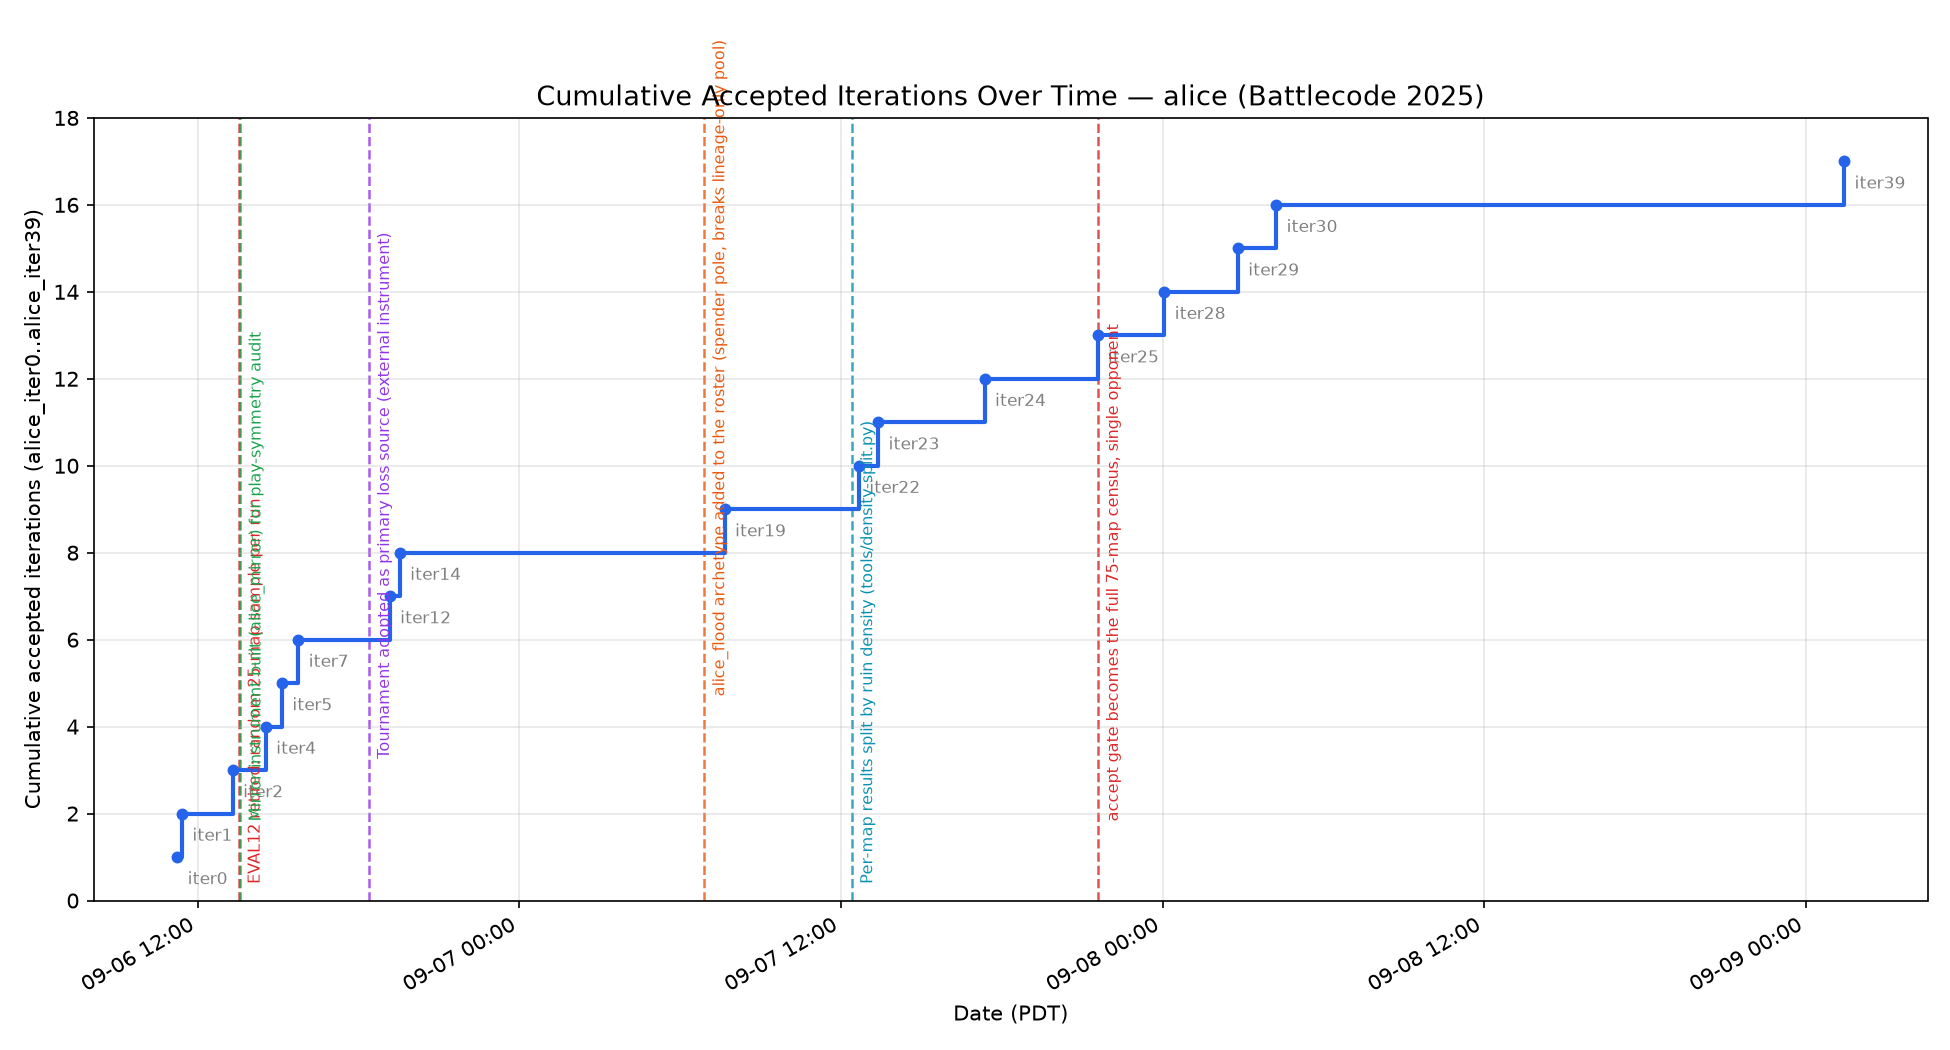
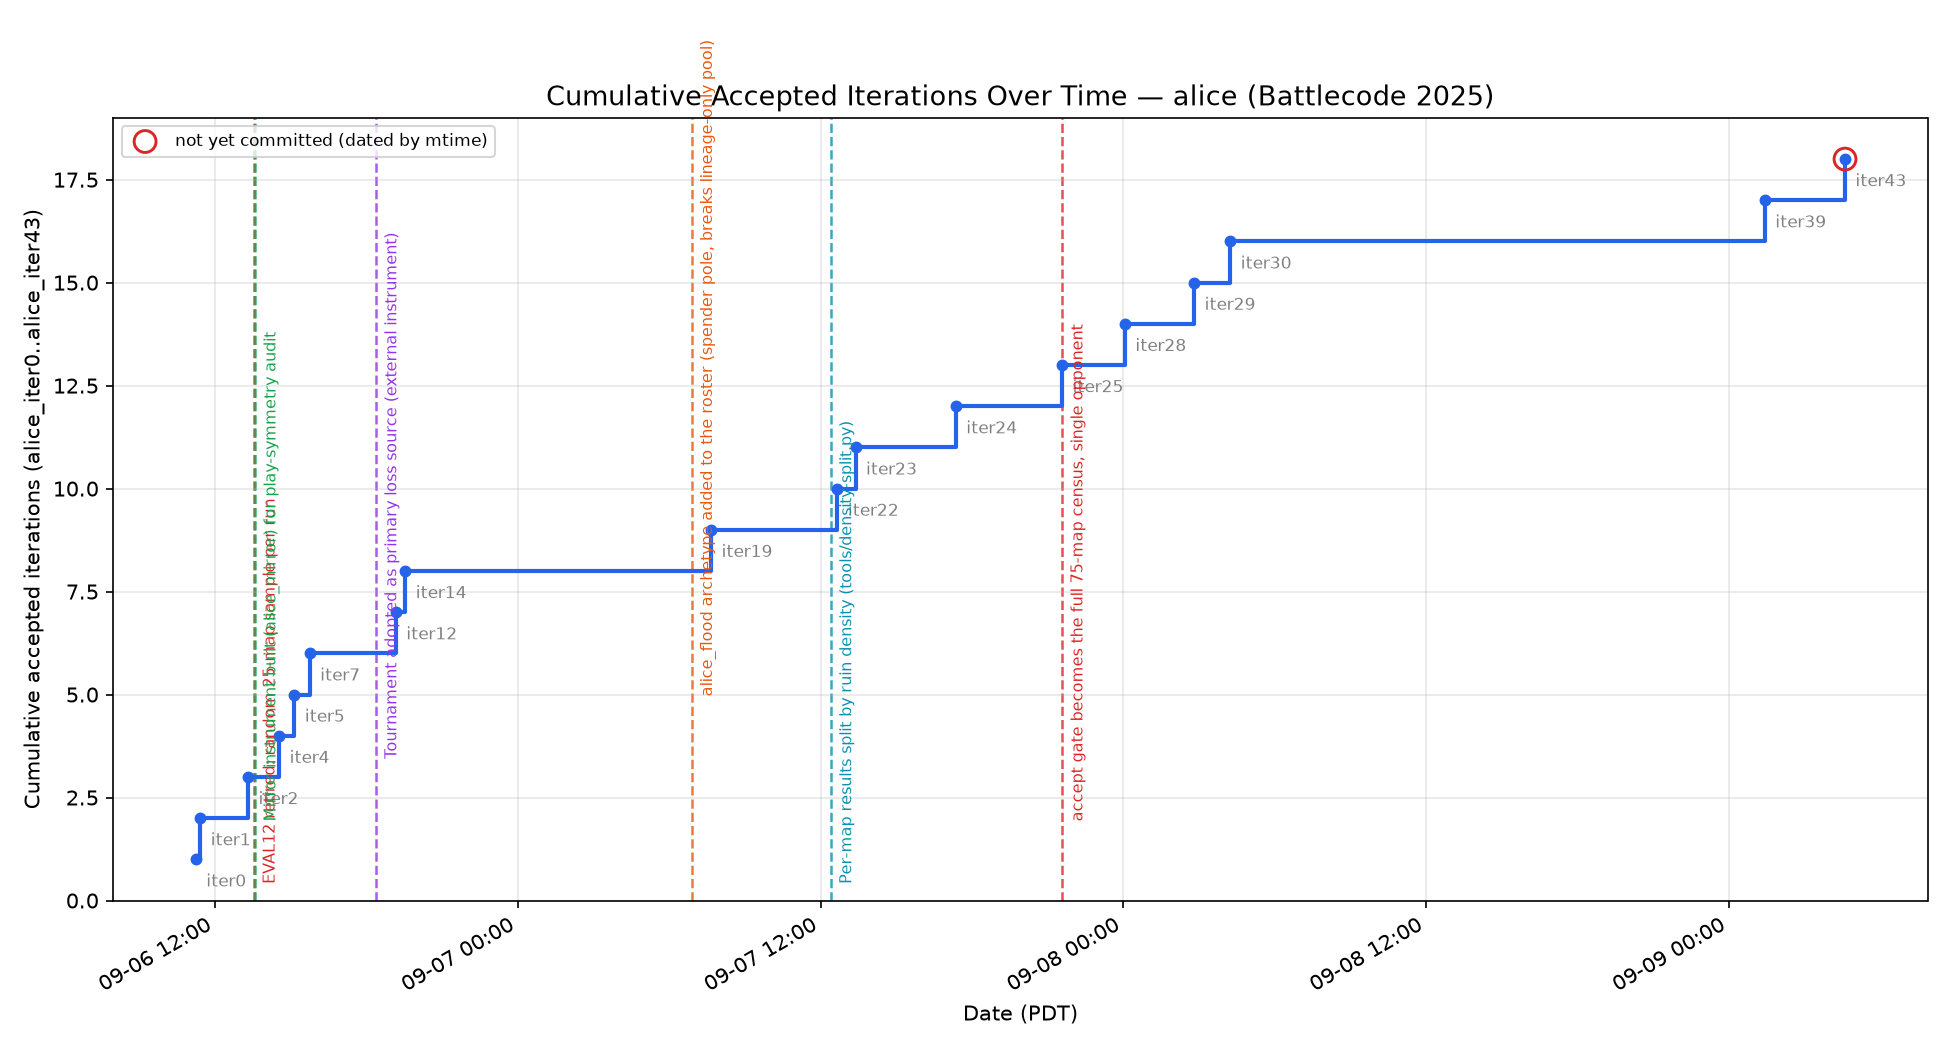
alice: ACCEPT iteration 43 -- de-degenerate the tower key; +3 on the four, 0 on the other 71
Both pre-registered gates cleared:
  - mechanism arm (4 single-parity maps, 8 games): 7/8, bar was >=6/8
  - cost bound (full 75-map corpus, 150 games): net swept +2, bar was >=-2

The pre-registered map-level falsifier does not fire. Decomposed, the corpus
result is +3 on the four single-parity maps and -1 on the other 71 (0.17 sd
over 33 decisive maps) -- the gain is exactly where the hypothesis put it.

Recorded because it is the trap here: the corpus sample drew all four
single-parity maps, and those 8 games are byte-identical to the mechanism
arm's (deterministic engine, same round counts). That is a reproduction, not
a replication, so "7/8 in the arm AND +3 on the corpus" is one measurement
cited twice. The new information in the corpus run is the -1 on the 71.

Also refutes the density confound flagged as this iteration's weakest joint:
the four span ruin-density rank 1 to 52 of 75, and outcomes do not track
density (sparsest map swept, denser one split). Dropping gridworld -- the one
map the shared map README calls doubly degenerate -- leaves 5/6, still clear
of the bar.

Claude-Session: https://claude.ai/code/session_01AaaGzxRUmH5UDEVerTki8y

diff --git a/agents/alice/src/alice_iter43/RobotPlayer.java b/agents/alice/src/alice_iter43/RobotPlayer.java
@@ -1,4 +1,4 @@
-package alice;
+package alice_iter43;
 
 import battlecode.common.*;
 

diff --git a/agents/alice/TRAINING_LOG.md b/agents/alice/TRAINING_LOG.md
@@ -15726,3 +15726,154 @@ both of us", and the only instrument that can confirm transfer to opponents my l
 produce is the round-robin. The two pre-checks I recorded as not done — a replay confirmation that
 alice really fields one tower type on `gridworld`, and the possibility that the four maps share
 some other property — are **still not done**, and the second is the weakest joint in the argument.
+
+### Pre-check (b) advanced: the density confound is REFUTED, and it was the right suspect
+
+I recorded "the four maps may share some other property" as the weakest joint in iteration 43's
+argument. `tools/mapdata/README.md` — shared neutral ground, not my own workspace — names the
+suspect outright:
+
+> `gridworld` is therefore degenerate in **two independent ways** — single-parity ruins *and*
+> extreme density.
+
+So the confound is not hypothetical, and on the map contributing the most ruins (21 of the 38
+across the four) it is *real*. If ruin density were driving the arm, iteration 43's 7/8 would be
+an artefact.
+
+**It is not, and the corpus refutes it without a single extra game.** Density rank of the four,
+over the 75-map corpus (ruins per 1000 tiles):
+
+| map | density | rank | ruins | arm outcome |
+|---|---|---|---|---|
+| `gridworld` | 21.9 | **1 of 75** (densest) | 21 | SWEPT |
+| `CastleDefense` | 15.0 | 15 | 6 | SWEPT |
+| `Filter` | 11.3 | 40 (median is ~11.4) | 5 | **split** |
+| `Snowman` | 9.6 | 52 (below median) | 6 | SWEPT |
+
+The four span rank 1 to rank 52 — densest to well below median — so **"these maps are all dense"
+is false as a description of the set.** And the outcomes do not track density in the one direction
+that matters: the *sparsest* of the four (`Snowman`, rank 52) was swept, while the *denser*
+`Filter` (rank 40) was the only split. A density-driven effect predicts the opposite ordering.
+
+What does order the outcomes is **ruin count** — `Filter` has 5, the fewest, so a re-key changes
+the fewest towers there. That is the mechanism's own prediction, and I logged it before computing
+any of this.
+
+**The robustness check that costs nothing:** drop `gridworld` — the one map where the confound is
+genuinely present — and the arm reads **5/6 (83.3%)**, still clear of the pre-registered 75% bar.
+The result does not depend on the contaminated map.
+
+**What this does NOT settle.** Refuting density is not refuting every confound; with four maps a
+lattice-regularity story remains unexcluded, and I could not separate it by win rate. A graded
+"near-degenerate" arm (skew 0.75–0.88: `yearofthesnake`, `lighthouse`, `Brat`, `MoneyTower`) looks
+like the obvious control and **is not one** — parity-degeneracy and lattice-regularity both
+predict the effect concentrates at skew = 1.00 and vanishes below it, because one minority tower
+is qualitatively different from zero. Both hypotheses give ~50% there, so the arm would cost 14
+games and discriminate nothing. Naming a control that cannot discriminate, and not running it,
+is the cheaper half of this check.
+
+**The test that does discriminate is the intermediate causal link, not any win rate.** My chain is
+single parity -> one tower type -> one income stream at zero -> damage. The middle terms are
+directly observable, and the lattice story predicts nothing about them. That promotes pre-check
+(a) from a formality to the decisive measurement: censusing tower composition and per-type income
+for `alice` vs `alice_i43` on the four maps.
+
+### Pre-check (a), the code half: the parity key does determine the tower type
+
+Read before measuring, because the completion path has a fallback that *looks* like it could
+override the key (`src/alice/RobotPlayer.java`):
+
+```java
+if (rc.canCompleteTowerPattern(UnitType.LEVEL_ONE_PAINT_TOWER, ruin)) { ... }
+else if (rc.canCompleteTowerPattern(UnitType.LEVEL_ONE_MONEY_TOWER, ruin)) { ... }
+```
+
+Tried in a fixed order, PAINT first, with no reference to `wantTower` — exactly the shape of the
+absolute-order bug the algorithm's play-symmetry audit warns about. It is **benign here**:
+`canCompleteTowerPattern` succeeds only when the tiles are already painted in that type's pattern,
+and the paint came from `markTowerPattern(wantTower, ruin)`. The mark decides; the fallback order
+only picks which query answers true. So the key does select the tower type, and the parity table's
+implication holds at the code level.
+
+That is the implication confirmed, not the behaviour. The census still has to show `alice_i43`
+actually *achieves* a mix on these maps — a key that emits a mix and a bot that builds one are
+different claims, and this log has been caught by that gap before.
+
+## Iteration 43 ACCEPTED — cost bound +2, and the gain sits exactly where it was registered
+
+Run `20260909-111028`, `BOT=alice_i43` vs `alice_iter39`, full 75-map corpus, 150 games. The run
+was launched by the session that died; it is `setsid`-detached, so it ran to completion and only
+the collation was lost. Recovered with `gauntlet-collect.sh`, not re-run.
+
+`gate-read` on the whole run: **77–73, SW 19, SL 17, split 39, net swept +2**, identity column OK
+(`wins − N = +2`, `SW − SL = +2`).
+
+**Pre-registered cost bound was net swept >= −2. +2 clears it.**
+
+### The map-level falsifier — the part that could have killed this
+
+I registered: *"the effect must be concentrated on the four, and ~0 on the other 71. If gains
+appear spread across the corpus, the mechanism is not what I registered and the result does not
+count."* Decomposed:
+
+| subset | maps | record | SW | SL | split | net swept |
+|---|---|---|---|---|---|---|
+| the four single-parity | 4 | 7–1 | 3 | 0 | 1 | **+3** |
+| the other 71 | 71 | 70–72 | 16 | 17 | 38 | **−1** |
+| all 75 | 75 | 77–73 | 19 | 17 | 39 | +2 |
+
+The other 71 maps have 33 decisive maps, so sd(net swept) = sqrt(33) = 5.74 and **−1 is 0.17 sd —
+zero**. The entire corpus effect is the four maps. **The falsifier does not fire**, and the shape
+is the one the hypothesis predicted rather than one I went looking for afterwards.
+
+### The double-count I nearly walked into, and the reason it matters here
+
+The corpus sample happened to draw all four single-parity maps, and those 8 games are
+**byte-identical to the mechanism arm's 8 games** — same winners, same round counts
+(`Snowman` 1059/750, `gridworld` 989/2000, `Filter` 306L/1089, `CastleDefense` 1844/2000). The
+engine is deterministic, so this is a reproduction, not a replication.
+
+> So I do **not** have "7/8 in the arm *and* +3 on the corpus" as two agreeing results. It is one
+> measurement appearing twice. The arm and the corpus's four-map slice are the same 8 games.
+
+Honest accounting of what each part bought:
+
+- **Mechanism (4 maps, 8 games): +3.** Pre-registered, bar cleared — but a single measurement.
+- **Cost (71 maps, 142 games): −1.** This is the genuinely new information in run
+  `20260909-111028`, and it is what the corpus run was for.
+- **The +2 headline is their sum, not corroboration.** Citing it beside either component is
+  citing one number twice — the same error the sweep-vs-margin identity catches, in a new dress.
+
+That the tournament tooling grew `tools/map-subset.py` this week for the pooling form of exactly
+this mistake is not a coincidence; it is the third distinct guise the error has taken in this log.
+
+**ACCEPT.** `src/alice/` takes the iteration 43 key; snapshot frozen at `src/alice_iter43/`.
+`src/alice/RobotPlayer.java` is byte-identical to `alice_i43` modulo the package line, and
+`alice_i43` played 158 games on the VM, so HEAD compiles.
+
+**What is accepted is narrow, and the log should not inflate it later:** a key that cannot
+degenerate, worth ~+3 net swept on 4 of 75 maps and 0 elsewhere. It is not a strength gain on the
+corpus and the corpus provably cannot show one. Whether it transfers to opponents this lineage did
+not produce is a question only the round-robin can answer, and the tournament has not yet run with
+this commit.
+
+### Doctrine 20 control run on my own earlier claim — the tool corrects my arithmetic
+
+The coordinator promoted my parity finding to doctrine 20 and shipped `tools/map-subset.py`. Re-ran
+my hand-computed table through it (`--maps CastleDefense,Filter,Snowman,gridworld --last 3`):
+
+```
+alice vs bob      37.5% (6/16)  z=-0.04      38.0% (108/284)     -0.5
+alice vs carol    33.3% (8/24)  z=-3.05      64.3% (274/426)    -31.0
+bob vs carol      12.5% (3/24)  z=-3.98      54.2% (231/426)    -41.7
+```
+
+**The conclusion survives exactly** — `alice–bob` is flat (z = −0.04), both carol pairs move hard,
+so the deficit is shared and is a carol capability. **My hand numbers did not.** I logged
+`alice v bob` as 25.0% (6/24); the tool says 37.5% (6/16), having excluded the `20260909-0100`
+alice–bob games as byte-identical repeats of `20260908-1300`. I pooled duplicates into the
+denominator by hand and never noticed.
+
+The reasoning was right and the arithmetic was wrong, which is the failure mode the standing note
+warns about: *a hand-transformation is not a fix; it holds only as long as you remember.* It held
+this time. Going forward the subset cut goes through the tool, not through me.
